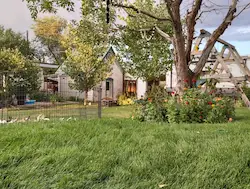
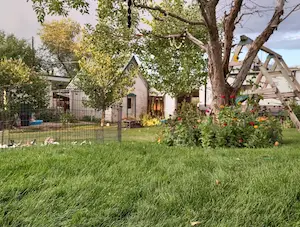
...

diff --git a/index.html b/index.html
@@ -24,7 +24,7 @@
 <body>
     <header>
         <div class="header-top">
-            <img src="images/profile.jpg" alt="Picture of Christi Dobbins" width="210" loading="lazy">
+            <img src="images/profile.webp" alt="Picture of Christi Dobbins" width="210" loading="lazy">
             <h1>Christina Dobbins</h1>
             <div class="hamburger-menu">&#9776;</div>
         </div>
@@ -70,7 +70,7 @@
         <section class="card">
             <h2>Payson, Utah USA</h2>
             <div class="country-content">
-                <img src="images/payson-utah-usa.jpg" alt="Picture of Payson, Utah USA" width="350">
+                <img src="images/payson-utah.webp" alt="Picture of Payson, Utah USA" width="350">
                 <p>My 120 year old shed</p>
             </div>
         </section>
@@ -108,7 +108,8 @@
     </main>
 
     <footer>
-        <p>&copy; <span id="currentyear"></span> 🐇 Christi Dobbins 🐇 USA<img src="images/usflag.jpg" alt="Picture of Christi Dobbins" width="60" loading="lazy"></p>
+        <p>&copy; <span id="currentyear"></span> 🐇 Christi Dobbins 🐇 USA<img src="images/usflag.jpg" alt="Picture of Christi Dobbins"
+                width="60" loading="lazy"></p>
         <p></p>Last modified: <span id="lastModified"></span></p>
     </footer>
 </body>
